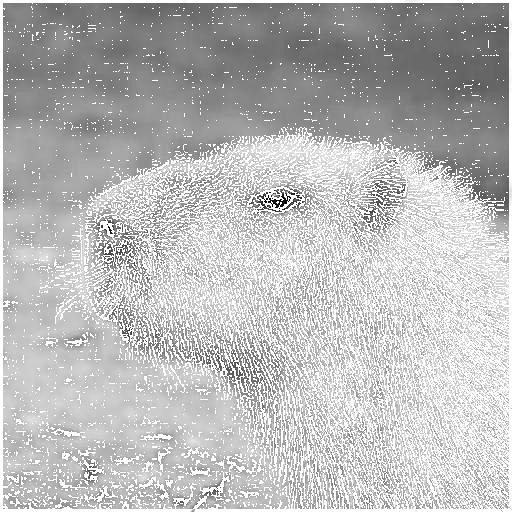
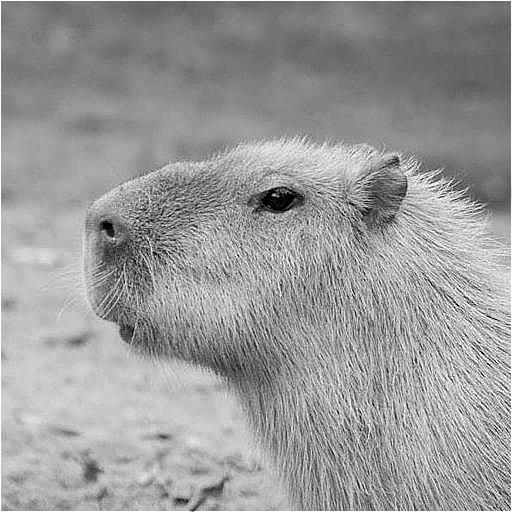
fix 3 task

diff --git a/lab_2/task_3.py b/lab_2/task_3.py
@@ -1,19 +1,17 @@
 import numpy as np
 from PIL import Image
 
-from task_2 import gaussian_filter, load_image
+from task_2 import load_image, rectangular_filter
 
 
-def unsharp_masking(image_array, sigma, lambda_coefficient):
+def unsharp_masking(image_array, k, lambda_coefficient):
     """
     Применяет нерезкое маскирование к изображению для повышения резкости.
     """
     # сглаживание
-    smoothed_image = np.array(gaussian_filter(image_array, sigma))
-    # R(p) = I(p) – S(p) вычисление высокочастотного (детального) компонента изображения
-    high_freq_image_array = image_array - smoothed_image
-    # J(p) = I(p) + λ*R(p) добавление усиленного детального компонента к исходному изображению для повышения резкости
-    sharpened_image_array = image_array + lambda_coefficient * high_freq_image_array
+    smoothed_image = np.array(rectangular_filter(image_array, k))
+    # J(p) = (1 + λ)I(p) - λ*S(p) добавление усиленного детального компонента к исходному изображению для повышения резкости
+    sharpened_image_array = (1 + lambda_coefficient)*np.array(image_array) - lambda_coefficient * smoothed_image
     # J′(p) = clip(J(p),0,255) ограничение значений пикселей полученного изображения диапазоном [0, 255]
     sharpened_image_array = np.clip(sharpened_image_array, 0, 255)
     return Image.fromarray(sharpened_image_array.astype('uint8'))
@@ -21,5 +19,5 @@ def unsharp_masking(image_array, sigma, lambda_coefficient):
 
 if __name__ == '__main__':
     input_image = load_image("../assets/image_bw.jpg")
-    sharp_image = unsharp_masking(input_image, sigma=1, lambda_coefficient=1.5)
+    sharp_image = unsharp_masking(input_image, k=3, lambda_coefficient=1.5)
     sharp_image.save('task_3_result/sharp_image.jpg')
